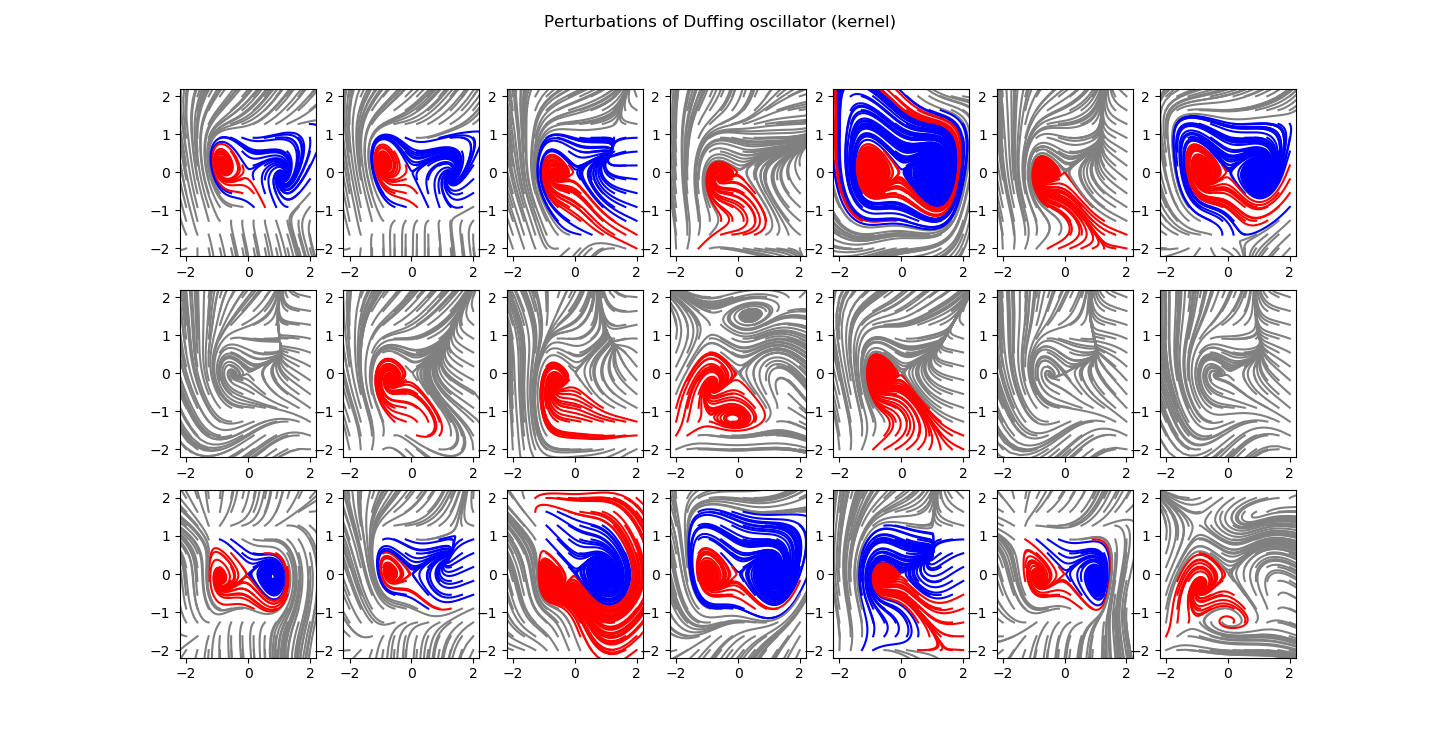
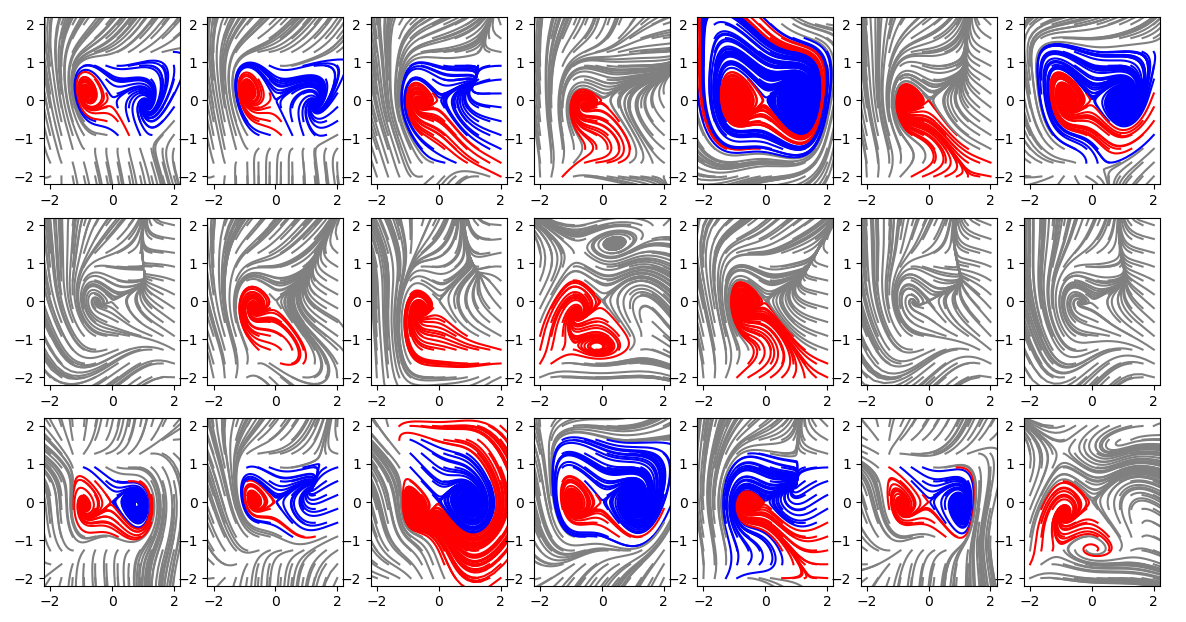
check NaN

diff --git a/experiments/duffing_plot.py b/experiments/duffing_plot.py
@@ -8,39 +8,53 @@ from sampler.utils import *
 from sampler.features import *
 from sampler.operators import *
 
+set_seed(9001)
+
 method = 'kernel'
 results = hkl.load(f'saved/duffing_{method}.hkl')
 nominal = torch.from_numpy(results['nominal']).float()
 posterior = results['posterior']
 samples = [torch.from_numpy(s).float() for s in results['samples']]
-trajectories = results['trajectories']
+# trajectories = results['trajectories']
 
-def get_color(z):
-	if z[0] > -1.5 and z[0] < -0.5 and z[1] > -0.5 and z[1] < 0.5:
-		return 'red'
-	elif z[0] > 0.5 and z[0] < 1.5 and z[1] > -0.5 and z[1] < 0.5:
-		return 'blue'
-	else:
-		return 'grey'
+print('Saving trajectories...')
+n_perturbed = 12
+n_ics = 14
+t = 800
+p, d, k = 5, 2, 15
+obs = PolynomialObservable(p, d, k)
+results['trajectories'] = []
+for P in random.choices(samples, k=n_perturbed):
+	results['trajectories'].append(sample_2d_dynamics(P, obs, t, (-2,2), (-2,2), n_ics, n_ics))
+hkl.dump(results, f'saved/duffing_{method}.hkl')
 
-y_samples, x_samples = 2, 6
-fig, axs = plt.subplots(y_samples, x_samples)
-fig.suptitle(f'Perturbations of Duffing oscillator ({method})')
-r, c = 0, 0
-for perturbed in trajectories:
-	ax = axs[r, c]
-	xbound, ybound = 2.2, 2.2
-	ax.set_xlim(left=-xbound, right=xbound)
-	ax.set_ylim(bottom=-ybound, top=ybound)
-	for tr in perturbed:
-		ax.plot(tr[0], tr[1], color=get_color(tr[:,-1]))
-	c += 1
-	if c == x_samples:
-		c = 0
-		r += 1
+# def get_color(z):
+# 	if z[0] > -1.5 and z[0] < -0.5 and z[1] > -0.5 and z[1] < 0.5:
+# 		return 'red'
+# 	elif z[0] > 0.5 and z[0] < 1.5 and z[1] > -0.5 and z[1] < 0.5:
+# 		return 'blue'
+# 	else:
+# 		return 'grey'
 
-plt.figure()
-plt.hist(posterior, density=True, bins=int(len(posterior)/4))
-plt.title('Posterior distribution')
+# y_samples, x_samples = 2, 6
+# fig, axs = plt.subplots(y_samples, x_samples)
+# # fig.suptitle(f'Perturbations of Duffing oscillator ({method})')
+# r, c = 0, 0
+# for perturbed in trajectories:
+# 	ax = axs[r, c]
+# 	xbound, ybound = 2.2, 2.2
+# 	ax.set_xlim(left=-xbound, right=xbound)
+# 	ax.set_ylim(bottom=-ybound, top=ybound)
+# 	ax.axis('off')
+# 	for tr in perturbed:
+# 		ax.plot(tr[0], tr[1], color=get_color(tr[:,-1]))
+# 	c += 1
+# 	if c == x_samples:
+# 		c = 0
+# 		r += 1
 
-plt.show()
+# plt.figure()
+# plt.hist(posterior, density=True, bins=int(len(posterior)/4))
+# plt.title('Posterior distribution')
+
+# plt.show()

diff --git a/sampler/operators.py b/sampler/operators.py
@@ -5,6 +5,7 @@ import torch
 import numpy as np
 import matplotlib.pyplot as plt
 import multiprocessing
+import traceback
 from functools import partial
 from tqdm import tqdm
 
@@ -52,9 +53,12 @@ def kdmd(X: torch.Tensor, Y: torch.Tensor, k: Kernel, epsilon=0, operator='K'):
 	return P
 
 def worker(x0, y0, P, obs, t):
-	init = torch.Tensor([[x0], [y0]])
-	Z = obs.extrapolate(P, init, t)
-	return Z.numpy()
+	try:
+		init = torch.Tensor([[x0], [y0]])
+		Z = obs.extrapolate(P, init, t)
+		return Z.numpy()
+	except:
+		print(traceback.format_exc())
 
 def sample_2d_dynamics(
 		P: torch.Tensor, obs: Observable, t: int,

diff --git a/sampler/dynamics.py b/sampler/dynamics.py
@@ -60,7 +60,10 @@ def perturb(
 
 	n_subsamples = int(max_samples / n_ics)
 	samples = hmc_parallel.sample(n_subsamples, ics, potential, boundary, step_size=hmc_step, n_leapfrog=hmc_leapfrog, n_burn=hmc_burn, random_step=hmc_random_step, return_first=True, debug=debug)
-	samples = [s for (s,) in samples]
+	n_ret = len(samples)
+	samples = [s for (s,) in samples if not torch.isnan(s).any()]
+	if len(samples) < n_ret:
+		print(f'Warning: {n_ret - len(n_samples)} out of {n_ret} contain NaNs, not returned.')
 	posterior = [dist_func(model, s).item() for s in samples]
 
 	return samples, posterior

diff --git a/sampler/features.py b/sampler/features.py
@@ -28,7 +28,7 @@ class Observable:
 	def preimage(self, Y: torch.Tensor):
 		return Y
 
-	def extrapolate(self, P: torch.Tensor, X: torch.Tensor, t: int, B: None, u: None, unlift_every=True, build_graph=False):
+	def extrapolate(self, P: torch.Tensor, X: torch.Tensor, t: int, B=None, u=None, unlift_every=True, build_graph=False):
 		'''
 		P: transfer operator
 		X: initial conditions
